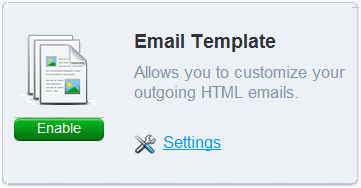
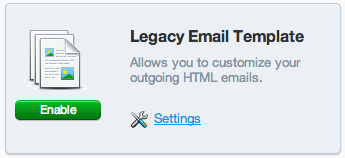
changed old template app to "legacy"

diff --git a/source/Apps/email_templates.html b/source/Apps/email_templates.html
@@ -1,14 +1,14 @@
 ---
 layout: page
 weight: 0
-title: Email Templates
+title: Legacy Email Templates
 navigation:
   show: true
 ---
 
 <p>This app wraps an HTML template around your email content. This can be useful for sending out marketing email and/or other HTML formatted messages.</p>
 
-<s><img src="{{root_url}}/images/email_templates.png" alt="Email Template App Image" title="Email Template"></s>
+<s><img src="{{root_url}}/images/email_templates.png" alt="Legacy Email Template App Image" title="Legacy Email Template"></s>
 
 {% anchor h2 %}
 Settings 

diff --git a/source/API_Reference/Web_API/filter_settings.html b/source/API_Reference/Web_API/filter_settings.html
@@ -152,8 +152,8 @@ DKIM
 
 <hr/>
 
-{% anchor h2 %}
-Email Templates 
+{% anchor h2 -Email-Templates %}
+Legacy Email Templates 
 {% endanchor %}
 
 <p><em>API App Name - <code>template</code></em></p>
